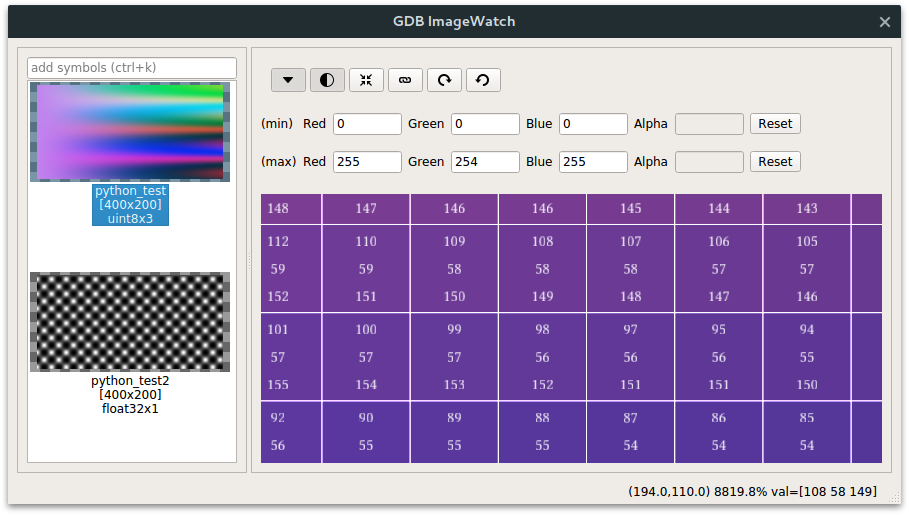
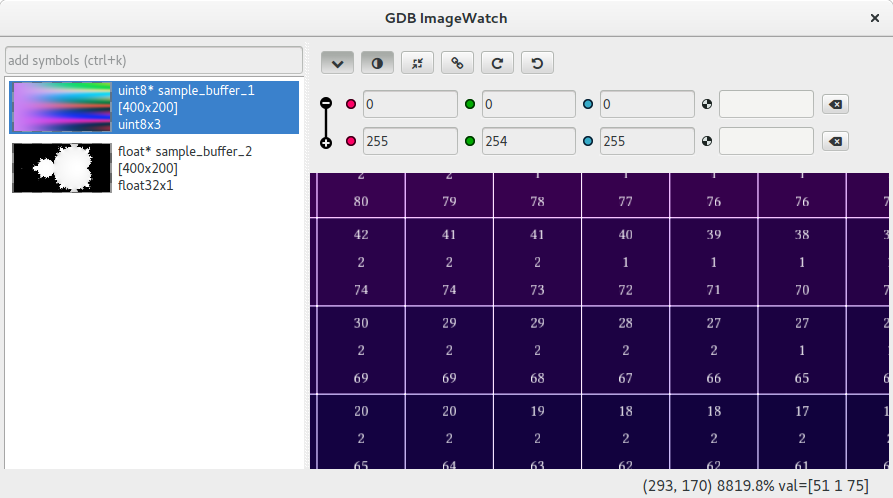
Prepare for release 1.1

diff --git a/resources/giwscripts/test.py b/resources/giwscripts/test.py
@@ -66,8 +66,13 @@ def _gen_buffers(width, height):
     tex1 = [0] * width * height * channels[0]
     tex2 = [0] * width * height * channels[1]
 
+    c_x = width * 2.0 / 3.0
+    c_y = height * 0.5
+    scale = 3.0 / width
+
     for pos_y in range(0, height):
         for pos_x in range(0, width):
+            # Buffer 1: Coloured set
             pixel_pos = [pos_x, pos_y]
 
             buffer_pos = pos_y * channels[0] * width + channels[0] * pos_x
@@ -79,12 +84,21 @@ def _gen_buffers(width, height):
             tex1[buffer_pos + 2] = _gen_color(
                 pixel_pos, [30, 120], math.cos, math.cos)
 
+            # Buffer 2: Mandelbrot set
+            pixel_pos = complex((pos_x-c_x), (pos_y-c_y)) * scale
             buffer_pos = pos_y * channels[1] * width + channels[1] * pos_x
 
+            mandel_z = complex(0, 0)
+            for _ in range(0, 20):
+                mandel_z = mandel_z * mandel_z + pixel_pos
+
+            z_norm_squared = mandel_z.real * mandel_z.real +\
+                             mandel_z.imag * mandel_z.imag
+            z_threshold = 5.0
+
             for channel in range(0, channels[1]):
-                tex2[buffer_pos + channel] = (
-                    math.exp(math.cos(pos_x / 5.0) *
-                             math.sin(pos_y / 5.0)))
+                tex2[buffer_pos + channel] = z_threshold - min(z_threshold,
+                                                               z_norm_squared)
 
     tex_arr1 = numpy.asarray(tex1, types[0]['numpy'])
     tex_arr2 = numpy.asarray(tex2, types[1]['numpy'])

diff --git a/src/visualization/components/buffer.cpp b/src/visualization/components/buffer.cpp
@@ -324,21 +324,21 @@ void Buffer::update()
 void Buffer::create_shader_program()
 {
     // Buffer Shaders
-    ShaderProgram::TexelChannels channelType;
+    ShaderProgram::TexelChannels channel_type;
     if (channels == 1) {
-        channelType = ShaderProgram::FormatR;
+        channel_type = ShaderProgram::FormatR;
     } else if (channels == 2) {
-        channelType = ShaderProgram::FormatRG;
+        channel_type = ShaderProgram::FormatRG;
     } else if (channels == 3) {
-        channelType = ShaderProgram::FormatRGB;
+        channel_type = ShaderProgram::FormatRGB;
     } else {
         assert(channels == 4);
-        channelType = ShaderProgram::FormatRGBA;
+        channel_type = ShaderProgram::FormatRGBA;
     }
 
     buff_prog.create(shader::buff_vert_shader,
                      shader::buff_frag_shader,
-                     channelType,
+                     channel_type,
                      pixel_layout_,
                      {"mvp",
                       "sampler",

diff --git a/src/ui/main_window/main_window.cpp b/src/ui/main_window/main_window.cpp
@@ -348,8 +348,9 @@ void MainWindow::update_status_bar()
             buffer->buffer_width_f / 2.f, buffer->buffer_height_f / 2.f, 0, 0);
 
         message << std::fixed << std::setprecision(1) << "("
-                << floorf(mouse_pos.x()) << "," << floorf(mouse_pos.y())
-                << ")\t" << cam->get_zoom() * 100.0 << "%";
+                << static_cast<int>(floor(mouse_pos.x())) << ", "
+                << static_cast<int>(floor(mouse_pos.y())) << ")\t"
+                << cam->get_zoom() * 100.0 << "%";
         message << " val=";
         buffer->get_pixel_info(
             message, floor(mouse_pos.x()), floor(mouse_pos.y()));

diff --git a/src/visualization/shaders/text_fs.cpp b/src/visualization/shaders/text_fs.cpp
@@ -33,12 +33,20 @@ uniform sampler2D text_sampler;
 uniform vec2 pix_coord;
 uniform vec4 brightness_contrast[2];
 
+
 // Ouput data
 varying vec2 uv;
+
 
 float round_float(float f) {
     return float(int(f + 0.5));
 }
+
+
+bool giw_isnan(float val) {
+    return (val < 0.0 || 0.0 < val || val == 0.0) ? false : true;
+}
+
 
 void main()
 {
@@ -48,7 +56,7 @@ void main()
     buff_color = buff_color * brightness_contrast[0].x +
                               brightness_contrast[1].x;
 
-    if (isnan(buff_color)) {
+    if (giw_isnan(buff_color)) {
         buff_color = 0.0;
     }
 

diff --git a/src/visualization/shader.cpp b/src/visualization/shader.cpp
@@ -161,7 +161,7 @@ GLuint ShaderProgram::compile(GLuint type, GLchar const* source)
     GLuint shader = glCreateShader(type);
 
     const char* src[] = {
-        "#version 130\n",
+        "#version 120\n",
 
         // clang-format off
         texel_format_ == FormatR ?   "#define FORMAT_R\n" :

diff --git a/src/giw_window.cpp b/src/giw_window.cpp
@@ -40,7 +40,8 @@ using namespace std;
 
 
 static char giw_app_argv0[] = "GDB-ImageWatch";
-static char* giw_app_argv[] = {giw_app_argv0};
+static char giw_app_argv1[] = "-style=fusion";
+static char* giw_app_argv[] = {giw_app_argv0, giw_app_argv1};
 static int giw_app_argc     = 1;
 
 

diff --git a/src/ui/main_window/initialization.cpp b/src/ui/main_window/initialization.cpp
@@ -265,5 +265,6 @@ void MainWindow::initialize_status_bar()
 {
     status_bar_ = new QLabel(this);
     status_bar_->setAlignment(Qt::AlignRight);
+
     statusBar()->addWidget(status_bar_, 1);
 }

diff --git a/README.md b/README.md
@@ -12,36 +12,46 @@ class, but can also be customized to work with any arbitrary data structure.
   buffer.
 * Auto update: Whenever a breakpoint is hit, the buffer view is automatically
   updated.
-* Auto contrast
-* Editable contrast clamp values, useful when inspecting a buffer that contains
-  uninitialized values.
-* Link views together, moving all watched buffers when a single buffer is moved
-  on the screen
-* GPU accelerated
+* Auto contrast: The entire range of values present in the buffer can be
+  automatically mapped to the visualization range `[0, 1]`, where `0`
+  represents black and `1` represents white.
+* The contrast range can be manually adjusted, which is useful for inspecting
+  buffers with extreme values (e.g. infinity, nan and other outliers).
+* Link views together, moving all watched buffers simultaneously when any
+  single buffer is moved on the screen
 * Supported buffer types: uint8_t, int16_t, uint16_t, int32_t, uint32_t,
   float and double
-* Supported buffer channels: Grayscale, two-channels, RGB and RGBA
-* Supports big buffers whose dimensions exceed GL_MAX_TEXTURE_SIZE.
-* Supports data structures that map to a ROI of a bigger buffer.
-* Exports buffers as png images (with auto contrast) or octave matrix files
-  (unprocessed).
+* Supported buffer channels: Up to four channels (Grayscale, two-channels, RGB
+  and RGBA)
+* GPU accelerated
+* Supports large buffers whose dimensions exceed GL_MAX_TEXTURE_SIZE.
+* Supports data structures that map to a ROI of a larger buffer.
+* Exports buffers as png images (with auto contrast) or octave/matlab matrix
+  files (unprocessed).
 * Rotate buffers 90&deg; clockwise or counterclockwise.
 * Auto-load buffers being visualized in the previous debug session
+* Designed to scale well for HighDPI displays
 
 ## Requirements
 
- * An OpenGL 2.0+ compliant GPU
+ * An OpenGL 2.1+ compliant GPU
  * A C++11 compliant compiler (gcc-5 or later is recommended)
+ * GDB 7.10+ **compiled with python 3 support**
+ * Qt 5.6+ (required due to the HighDPI display support - download it
+   [here](https://info.qt.io/download-qt-for-application-development))
+ * FreeType 2
+ * Eigen 3
+ * Python 3+ with its development packages
+ * Numpy
+ * GLEW with its development packages
 
 ## Installation
 
 ### Dependencies
 
-GDB ImageWatch requires python 3+, lib freetype 2, Qt SDK, GLEW, GLFW, Qt 5+
-and GDB 7.10+ (which must be compiled with python 3 support). On Ubuntu, you
-can install these packages with the following command:
+On Ubuntu, you can install most of the dependencies with the following command:
 
-    sudo apt-get install libpython3-dev libglew-dev python3-numpy python3-pip qt-sdk texinfo libfreetype6-dev libeigen3-dev libqt5opengl5-dev
+    sudo apt-get install libpython3-dev libglew-dev python3-numpy python3-pip texinfo libfreetype6-dev libeigen3-dev
     sudo pip3 install pysigset
 
 Download and install the latest version of GDB with python3 support (if you
@@ -68,32 +78,36 @@ Finally, clone the GDB ImageWatch plugin to any folder you prefer:
 ### Ubuntu 16.04 manual installation with QtCreator
 
 Ubuntu 16.04 comes with qt4, which is not compatible with GDB ImageWatch. In
-order to compile it, you need to install qt5 and use its corresponding qmake
-during the compilation step.
+order to compile it, you need to install qt5
+([get it here](https://info.qt.io/download-qt-for-application-development)) and
+use its corresponding qmake during the compilation step.
 
-If you are using QtCreator, this can be done by going to Tools->Options->Build
-& Run->Kits and set Qt version to any Qt version >= 5.
+If you are using QtCreator, you can change your Qt version under
+Tools->Options->Build & Run->Kits, by setting Qt version to any Qt version >=
+5.
 
 ### Build plugin and configure GDB
 
 To build this plugin, create a `build` folder, open a terminal window inside it
 and run:
 
-    qmake ..
+    qmake .. BUILD_MODE=release PREFIX=/path/to/installation/folder
     make -j4
     make install
 
-The `make install` step is absolutely required, and will only copy the
-dependencies to the build folder (thus, it doesn't require any special user
-privileges).
+The installation step is optional; you can simply use the plugin from the build
+folder instead. If you choose to install the plugin, it will be placed under
+`/path/to/installation/folder/bin/gdb-imagewatch/`.
+
+By default, the `PREFIX` variable is `/usr/local`.
 
 #### Loading plugin: QtCreator
 
 If you use QtCreator, the best way to integrate GDB ImageWatch into your
 workflow is by using it as an *extra debugging helper*. This can be achieved by
 going to the menu `Tools`->`Options`->`Debugger` and adding the file
-`/path/to/gdb-imagewatch/build/gdb-imagewatch.py` in the option
-`Extra debugging Helpers`.
+`/path/to/gdb-imagewatch/gdb-imagewatch.py` in the option `Extra debugging
+Helpers`.
 
 This will automatically load the plugin for every debug session, and will
 reload the local variables when switching between threads/stack level when the
@@ -104,7 +118,7 @@ debugger is paused.
 If you are not using QtCreator, simply edit the `~/.gdbinit` file (create it if
 it doesn't exist) and append the following line:
 
-    source /path/to/gdb-imagewatch/build/gdb-imagewatch.py
+    source /path/to/gdb-imagewatch/gdb-imagewatch.py
 
 This way, GDB will automatically load the GDB imagewatch plugin every time it
 starts.
@@ -112,23 +126,25 @@ starts.
 ### Ubuntu 16.04 Automated Installation without QtCreator
 
 If you are not using QtCreator, we provide the script `configure_ubuntu_16.sh`
-which handles the Qt version issue and automates the installation of GDB ImageWatch
-on Ubuntu 16.04. From the root directory of this project, execute the following:
+which automates most of the installation of GDB ImageWatch on Ubuntu 16.04.
+From the root directory of this project, execute the following:
 
     bash configure_ubuntu_16.sh
-    
-Follow this step with the instructions below in the section `Testing your installation`.
+
+Follow this step with the instructions below in the section `Testing your
+installation`.
 
 ## Testing your installation
 
 After compiling the plugin, you can test it by opening a console in the
-installation folder and running the following command from the root project directory:
+installation folder and running the following command from the root project
+directory:
 
-    python3 build/gdb-imagewatch.py --test
+    python3 /path/to/gdb-imagewatch/gdb-imagewatch.py --test
 
 If the installation was succesful, you should see the GDB ImageWatch window
-with the same python_test and python_test2 buffers from the image on the header
-of this page.
+with the same `sample_buffer_1` and `sample_buffer_2` buffers from the image on
+the header of this page.
 
 ## Using plugin
 
@@ -141,7 +157,7 @@ with the following command:
 
     plot variable_name
 
-### <img src="resources/icons/contrast.png" width="20"/> Auto-contrast and manual contrast
+### <img src="doc/auto-contrast.svg" width="20"/> Auto-contrast and manual contrast
 
 The (min) and (max) fields on top of the buffer view can be changed to control
 autocontrast settings. By default, GDB ImageWatch will automatically fill these
@@ -150,12 +166,12 @@ channel values will be normalized from these values to the range [0, 1] inside
 the renderer.
 
 Sometimes, your buffer may contain trash, uninitialized values that are either
-too big or too small, making the entire image look flat because of this
+too large or too small, making the entire image look flat because of this
 normalization. If you know the expected range for your image, you can manually
 change the (min) and (max) values to focus on the range that you are
 interested.
 
-### <img src="resources/icons/link.png" width="20"/> Locking buffers
+### <img src="doc/link-views.svg" width="20"/> Locking buffers
 
 Sometimes you want to compare two buffers being visualized, and need to zoom in
 different places of these buffers. If they are large enough, this can become a
@@ -181,8 +197,9 @@ binary file that can be opened with any tool.
 ### Loading Octave/Matlab buffers
 
 Buffers exported in the `Octave matrix` format can be loaded with the function
-`giw_load.m`, which is installed in the binary folder. To use it, add this
-folder to Octave/Matlab `path` variable and call `giw_load('/path/to/buffer')`.
+`giw_load.m`, which is available in the `matlab` folder. To use it, add this
+folder to Octave/Matlab `path` variable and call
+`giw_load('/path/to/buffer.dump')`.
 
 ### Configure your IDE to use GDB 7.10
 
